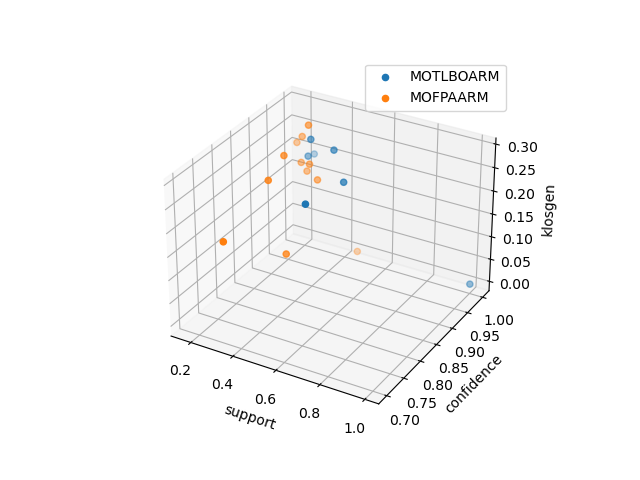
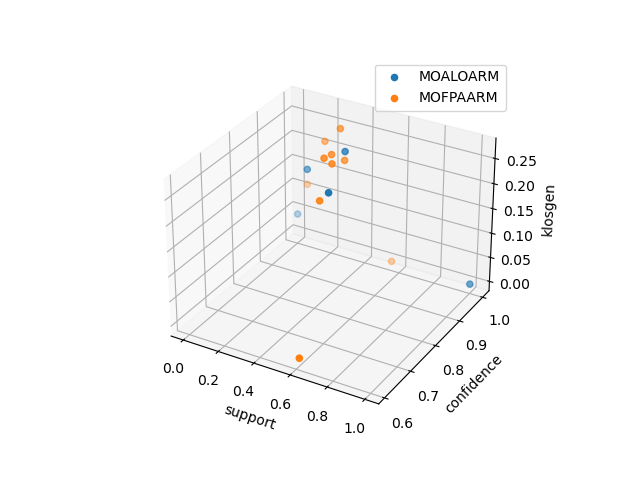
add Ant lion algorithm

diff --git a/src/Algorithm/MOALOARM.py b/src/Algorithm/MOALOARM.py
@@ -1,0 +1,104 @@
+from src.Utils.Fitness import *
+from src.Utils.Population import *
+import matplotlib.pyplot as plt
+import pandas as pd
+from scipy.spatial import distance
+from src.Utils.Graphs import *
+from time import time
+
+class MOALOARM:
+    def __init__(self,nbItem,populationSize,nbIteration,nbObjectifs,objectiveNames,data,
+                 nbChanges = 5,
+                 save=True,display=True,path='Figures/'):
+        self.ants = Population('horizontal_binary', int(populationSize/2), nbItem)
+        self.lions = Population('horizontal_binary', int(populationSize/2), nbItem)
+        self.nbItem = nbItem
+        self.nbIteration = nbIteration
+        self.nbObjectifs = nbObjectifs
+        self.fitness = Fitness('horizontal_binary', objectiveNames, int(populationSize/2) )
+        self.fitnessAnts = Fitness('horizontal_binary', objectiveNames, int(populationSize/2) )
+        self.elite = []
+        self.eliteScore = []
+        self.maxBound = 1
+        self.minBound = -1
+        self.nbChanges = nbChanges
+        self.save = save
+        self.display = display
+        self.path = path
+        self.executionTime = 0
+        self.fitnessAnts.ComputeScorePopulation(self.ants.population, data)
+        self.fitness.ComputeScorePopulation(self.lions.population, data)
+        self.UpdateElite()
+
+
+
+    def UpdateElite(self):
+        indexs = np.arange(self.lions.populationSize)
+        paretoFront = np.ones(self.lions.populationSize)
+        for i in range(self.lions.populationSize):
+            for j in range(self.lions.populationSize):
+                domination = self.fitness.Domination(self.fitness.scores[i],self.fitness.scores[j])
+                if domination == 1:
+                    paretoFront[i] = 0
+                    break
+        candidate = indexs[paretoFront == 1]
+        index = rd.choice(candidate)
+        self.elite = copy.deepcopy(self.lions.population[index])
+        self.eliteScore = copy.deepcopy(self.fitness.scores[index])
+
+    def SelectLions(self):
+
+        candidate = []
+        for i in range(self.lions.populationSize):
+            for j in range(self.lions.populationSize):
+                domination = self.fitness.Domination(self.fitness.scores[i],self.fitness.scores[j])
+                if domination == 1:
+                    candidate.append(i)
+        index = rd.choice(candidate)
+        return index
+
+    def UpdateBounds(self,i):
+        i_ = i+1
+        if i_ >0.95*self.nbIteration:
+            w = 6
+        elif i_ >0.9*self.nbIteration:
+            w = 5
+        elif i_ > 0.75 * self.nbIteration:
+            w = 4
+        elif i_ >0.5*self.nbIteration:
+            w = 3
+        else:
+            w = 2
+
+        self.maxBound = self.maxBound/(np.power(10,w)*(i_/self.nbIteration))
+        self.minBound = self.minBound / (np.power(10, w) * (i_ / self.nbIteration))
+
+    def GenerateRandomWalk(self):
+        rdw = [0 for _ in range(self.nbItem*2)]
+        nbChanges = rd.randint(1,self.nbChanges)
+        for i in range(nbChanges):
+            index = rd.randint(0,self.nbItem*2-1)
+            rdw[index] = float(rd.randint(-1,1))
+        rdw = np.array(rdw)
+        return rdw
+
+
+    def Run(self,data,i):
+        t1 = time()
+        for i in range(self.ants.populationSize):
+            lion = self.SelectLions()
+            self.UpdateBounds(i)
+            lionRandomWalk = self.lions.population[lion] + self.GenerateRandomWalk()
+            eliteRandomWalk = copy.deepcopy(self.elite) + self.GenerateRandomWalk()
+            self.ants.population[i] = (lionRandomWalk+eliteRandomWalk)/2
+            score = self.fitnessAnts.ComputeScoreIndividual(self.ants.population[i],data)
+            domination = self.fitnessAnts.Domination(self.fitness.scores[lion],score)
+            self.fitnessAnts.scores[i] = copy.deepcopy(score)
+            if domination == 1:
+                self.lions.population[lion] = copy.deepcopy(self.ants.population[i])
+        self.fitness.ComputeScorePopulation(self.lions.population,data)
+        self.UpdateElite()
+        self.executionTime = time() - t1
+
+
+

diff --git a/main.py b/main.py
@@ -10,6 +10,7 @@ from src.Algorithm.MOWSAARM import *
 from src.Algorithm.MOCatSOARM import *
 from src.Algorithm.MOTLBOARM import *
 from src.Algorithm.MOFPAARM import *
+from src.Algorithm.MOALOARM import *
 
 from src.Utils.Performances import *
 
@@ -17,7 +18,7 @@ nbIteration = 20
 populationSize = 200
 objectiveNames = ['support','confidence','klosgen']
 criterionList = ['scores','execution time']
-algorithmNameList = ['MOTLBOARM','MOFPAARM']
+algorithmNameList = ['MOALOARM','MOFPAARM']
 #algorithmNameList = ['CSOARM','mopso','nsgaii','hmofaarm','mowsaarm','mocatsoarm','motlboarm']
 
 perf = Performances(algorithmNameList,criterionList,objectiveNames)
@@ -33,9 +34,10 @@ mowsaarm = MOWSAARM(data.shape[1],populationSize,nbIteration,len(objectiveNames)
 mocatsoarm = MOCatSOARM(data.shape[1],populationSize,nbIteration,len(objectiveNames),objectiveNames,save=True,display=False,path='Figures/MOCatSOARM/')
 motlboarm = MOTLBOARM(data.shape[1],populationSize,nbIteration,len(objectiveNames),objectiveNames,save=True,display=False,path='Figures/MOTLBOARM/')
 mofpaarm = MOFPAARM(data.shape[1],populationSize,nbIteration,len(objectiveNames),objectiveNames,data,save=True,display=False,path='Figures/MOFPAARM/')
+moaloarm = MOALOARM(data.shape[1],populationSize,nbIteration,len(objectiveNames),objectiveNames,data,save=True,display=False,path='Figures/MOALOARM/')
 
 #algorithmList = [csoarm,mopso,nsgaii,hmofaarm,mowsaarm,mocatsoarm,motlboarm]
-algorithmList = [motlboarm,mofpaarm]
+algorithmList = [moaloarm,mofpaarm]
 for i in range(nbIteration):
     k = 0
     for alg in algorithmList:
